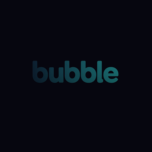
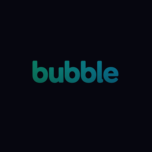
Add files via upload

Changed region(s): [[0.2105, 0.3947, 0.7632, 0.5526]]

diff --git a/index.html b/index.html
@@ -9,7 +9,7 @@
 <meta name="theme-color" content="#06060F">
 <meta name="color-scheme" content="dark">
 <title>Bubble — Network Radar</title>
-<link rel="manifest" href="manifest.json?v=393">
+<link rel="manifest" href="manifest.json?v=394">
 <link rel="icon" type="image/png" sizes="32x32" href="bubble-favicon-32.png?v=2">
 <link rel="icon" type="image/x-icon" href="bubble-favicon.ico?v=2">
 <link rel="apple-touch-icon" sizes="180x180" href="bubble-icon-180.png?v=2">
@@ -17,27 +17,27 @@
 <link rel="apple-touch-icon" sizes="152x152" href="bubble-icon-152.png?v=2">
 <link rel="apple-touch-icon" href="bubble-icon-180.png?v=2">
 <link href="https://fonts.googleapis.com/css2?family=Outfit:wght@300;400;500;600;700;800&display=swap" rel="stylesheet">
-<link rel="stylesheet" href="app.css?v=393">
+<link rel="stylesheet" href="app.css?v=394">
 <script src="https://cdn.jsdelivr.net/npm/@supabase/supabase-js@2" defer></script>
 <script src="https://cdn.jsdelivr.net/npm/qrcodejs@1.0.0/qrcode.min.js" defer></script>
-<script src="bubble-icons.js?v=393" defer></script>
-<script src="tag-data.js?v=393" defer></script>
-<script src="b-config.js?v=393" defer></script>
-<script src="b-utils.js?v=393" defer></script>
-<script src="b-navigation.js?v=393" defer></script>
-<script src="b-auth.js?v=393" defer></script>
-<script src="b-home.js?v=393" defer></script>
-<script src="b-bubbles.js?v=393" defer></script>
-<script src="b-profile.js?v=393" defer></script>
-<script src="b-radar.js?v=393" defer></script>
-<script src="b-messages.js?v=393" defer></script>
-<script src="b-realtime.js?v=393" defer></script>
-<script src="b-onboarding.js?v=393" defer></script>
-<script src="b-chat.js?v=393" defer></script>
-<script src="b-notifications.js?v=393" defer></script>
-<script src="b-live.js?v=393" defer></script>
-<script src="b-admin.js?v=393" defer></script>
-<script src="b-boot.js?v=393" defer></script>
+<script src="bubble-icons.js?v=394" defer></script>
+<script src="tag-data.js?v=394" defer></script>
+<script src="b-config.js?v=394" defer></script>
+<script src="b-utils.js?v=394" defer></script>
+<script src="b-navigation.js?v=394" defer></script>
+<script src="b-auth.js?v=394" defer></script>
+<script src="b-home.js?v=394" defer></script>
+<script src="b-bubbles.js?v=394" defer></script>
+<script src="b-profile.js?v=394" defer></script>
+<script src="b-radar.js?v=394" defer></script>
+<script src="b-messages.js?v=394" defer></script>
+<script src="b-realtime.js?v=394" defer></script>
+<script src="b-onboarding.js?v=394" defer></script>
+<script src="b-chat.js?v=394" defer></script>
+<script src="b-notifications.js?v=394" defer></script>
+<script src="b-live.js?v=394" defer></script>
+<script src="b-admin.js?v=394" defer></script>
+<script src="b-boot.js?v=394" defer></script>
   
 
 </head>
@@ -79,7 +79,7 @@
 <div class="screen active" id="screen-loading">
   <div style="text-align:center">
     <div style="width:64px;height:64px;margin:0 auto 0.5rem;color:var(--accent)"><svg class="ico" style="width:64px;height:64px" viewBox="0 0 24 24" fill="none" stroke="currentColor" stroke-width="1.5" stroke-linecap="round" stroke-linejoin="round"><circle cx="9.5" cy="9.5" r="6" opacity="0.85"/><circle cx="16" cy="13.5" r="4.5" opacity="0.6"/><circle cx="8" cy="16" r="3" opacity="0.45"/></svg></div>
-    <div style="font-size:1.8rem;font-weight:900;letter-spacing:-0.05em;background:linear-gradient(135deg,#A89FFF 0%,#8B7FFF 40%,#FF6B9D 80%);-webkit-background-clip:text;-webkit-text-fill-color:transparent">bubble</div>
+    <div style="font-size:1.8rem;font-weight:900;letter-spacing:-0.05em"><img src="bubble-logo-splash.png" alt="bubble" style="height:40px;width:auto"></div>
     <div class="spinner" style="margin-top:2rem"></div>
     <div style="font-size:0.85rem;color:var(--muted);margin-top:1rem" id="loading-msg">Forbinder til server...</div>
   </div>
@@ -92,7 +92,7 @@
   <!-- INTRO SPLASH (shown first, hidden after tap) -->
   <div id="auth-splash" style="text-align:center;padding:2rem 1.5rem 0">
     <div style="width:64px;height:64px;margin:0 auto 1rem;color:var(--accent)"><svg class="ico" style="width:64px;height:64px" viewBox="0 0 24 24" fill="none" stroke="currentColor" stroke-width="1.5" stroke-linecap="round" stroke-linejoin="round"><circle cx="9.5" cy="9.5" r="6" opacity="0.85"/><circle cx="16" cy="13.5" r="4.5" opacity="0.6"/><circle cx="8" cy="16" r="3" opacity="0.45"/></svg></div>
-    <div style="font-size:2.4rem;font-weight:900;letter-spacing:-0.05em;background:linear-gradient(135deg,#A89FFF 0%,#8B7FFF 40%,#FF6B9D 80%);-webkit-background-clip:text;-webkit-text-fill-color:transparent;margin-bottom:0.6rem">bubble</div>
+    <div style="margin-bottom:0.6rem"><img src="bubble-logo-splash.png" alt="bubble" style="height:48px;width:auto"></div>
     <div style="font-size:1.1rem;font-weight:700;color:var(--text);margin-bottom:0.5rem">Mød de rigtige mennesker</div>
     <div style="font-size:0.82rem;color:var(--text-secondary);line-height:1.6;margin:0 auto 1.5rem">Bubble er en networking-radar der forbinder dig med relevante mennesker omkring dig — på events, i din by og i dit faglige netværk.</div>
 
@@ -422,7 +422,7 @@
 ════════════════════════════════════════ -->
 <div class="screen" id="screen-home">
   <div class="topbar">
-    <div class="topbar-logo" onclick="goTo('screen-home')" style="cursor:pointer">bubble</div>
+    <img src="bubble-logo-topbar.png" alt="bubble" class="topbar-logo" onclick="goTo('screen-home')" style="cursor:pointer;height:22px;width:auto">
     <div style="flex:1"></div>
     <div style="width:34px;height:34px;border-radius:50%;background:linear-gradient(135deg,#8B7FFF,#E85D8A);cursor:pointer;display:flex;align-items:center;justify-content:center;font-size:0.75rem;font-weight:700;color:white;border:1.5px solid rgba(255,255,255,0.1)" id="home-avatar" onclick="goTo('screen-profile')">?</div>
   </div>
@@ -1310,7 +1310,7 @@
      MODAL: LIVE CHECK-IN
 ════════════════════════════════════════ -->
 <div class="modal-overlay" id="modal-live-checkin" onclick="if(event.target===this)closeModal('modal-live-checkin')">
-  <div class="modal-sheet scroll-fade" style="max-height:80vh;overflow-y:auto">
+  <div class="modal-sheet" style="max-height:80vh;overflow-y:auto">
     <div class="modal-handle"></div>
     <div class="modal-title"><svg xmlns="http://www.w3.org/2000/svg" viewBox="0 0 24 24" fill="none" stroke="currentColor" stroke-width="1.5" stroke-linecap="round" stroke-linejoin="round" class="ico" style="color:#2ECFCF"><path d="M12 21.5c-3.5-3.5-6.5-7-6.5-10.5a6.5 6.5 0 0113 0c0 3.5-3 7-6.5 10.5z"/><circle cx="12" cy="11" r="2.5"/></svg> Live Check-in</div>
 

diff --git a/b-config.js b/b-config.js
@@ -10,8 +10,8 @@ var isDesktop = window.matchMedia('(min-width: 600px)').matches && !('ontouchsta
 // ══════════════════════════════════════════════════════════
 //  CONFIGURATION
 // ══════════════════════════════════════════════════════════
-const BUILD_TIMESTAMP = '2026-03-14T10:00:00';
-const BUILD_VERSION  = 'v3.9.3';
+const BUILD_TIMESTAMP = '2026-03-14T10:30:00';
+const BUILD_VERSION  = 'v3.9.4';
 const SUPABASE_URL  = "https://pfxcsjjxvdtpsfltexka.supabase.co";
 const SUPABASE_ANON_KEY = "sb_publishable_y6BftA4RQw91dLHPXIncag_oGomBk-A";
 const GIPHY_API_KEY = "5GbVR1NiodxCj61uImKnLydncCGdNGfi";

diff --git a/app.css b/app.css
@@ -1896,13 +1896,4 @@ input[type="range"] {
 }
 .bc-hero-icon .ico { width:24px;height:24px; }
 
-/* ── SCROLL FADE — content fades at edges ── */
-.scroll-fade {
-  -webkit-mask-image: linear-gradient(to bottom, transparent, black 20px, black calc(100% - 16px), transparent);
-  mask-image: linear-gradient(to bottom, transparent, black 20px, black calc(100% - 16px), transparent);
-}
-.chat-members-list,
-.chat-scroll {
-  -webkit-mask-image: linear-gradient(to bottom, transparent, black 16px, black calc(100% - 12px), transparent);
-  mask-image: linear-gradient(to bottom, transparent, black 16px, black calc(100% - 12px), transparent);
-}
+/* ── SCROLL FADE — disabled, needs refinement ── */

diff --git a/sw.js b/sw.js
@@ -3,7 +3,7 @@
 // ══════════════════════════════════════
 // Version managed by CACHE_NAME below
 
-const CACHE_NAME = 'bubble-v3.9.3';
+const CACHE_NAME = 'bubble-v3.9.4';
 const CACHE_URLS = [
   './', './index.html', './app.css',
   './bubble-icons.js', './tag-data.js',
@@ -12,7 +12,9 @@ const CACHE_URLS = [
   './b-profile.js', './b-radar.js', './b-messages.js',
   './b-realtime.js', './b-onboarding.js', './b-chat.js',
   './b-notifications.js', './b-live.js', './b-admin.js',
-  './b-boot.js'
+  './b-boot.js',
+  './bubble-logo-topbar.png',
+  './bubble-logo-splash.png'
 ];
 
 self.addEventListener('install', function(event) {
